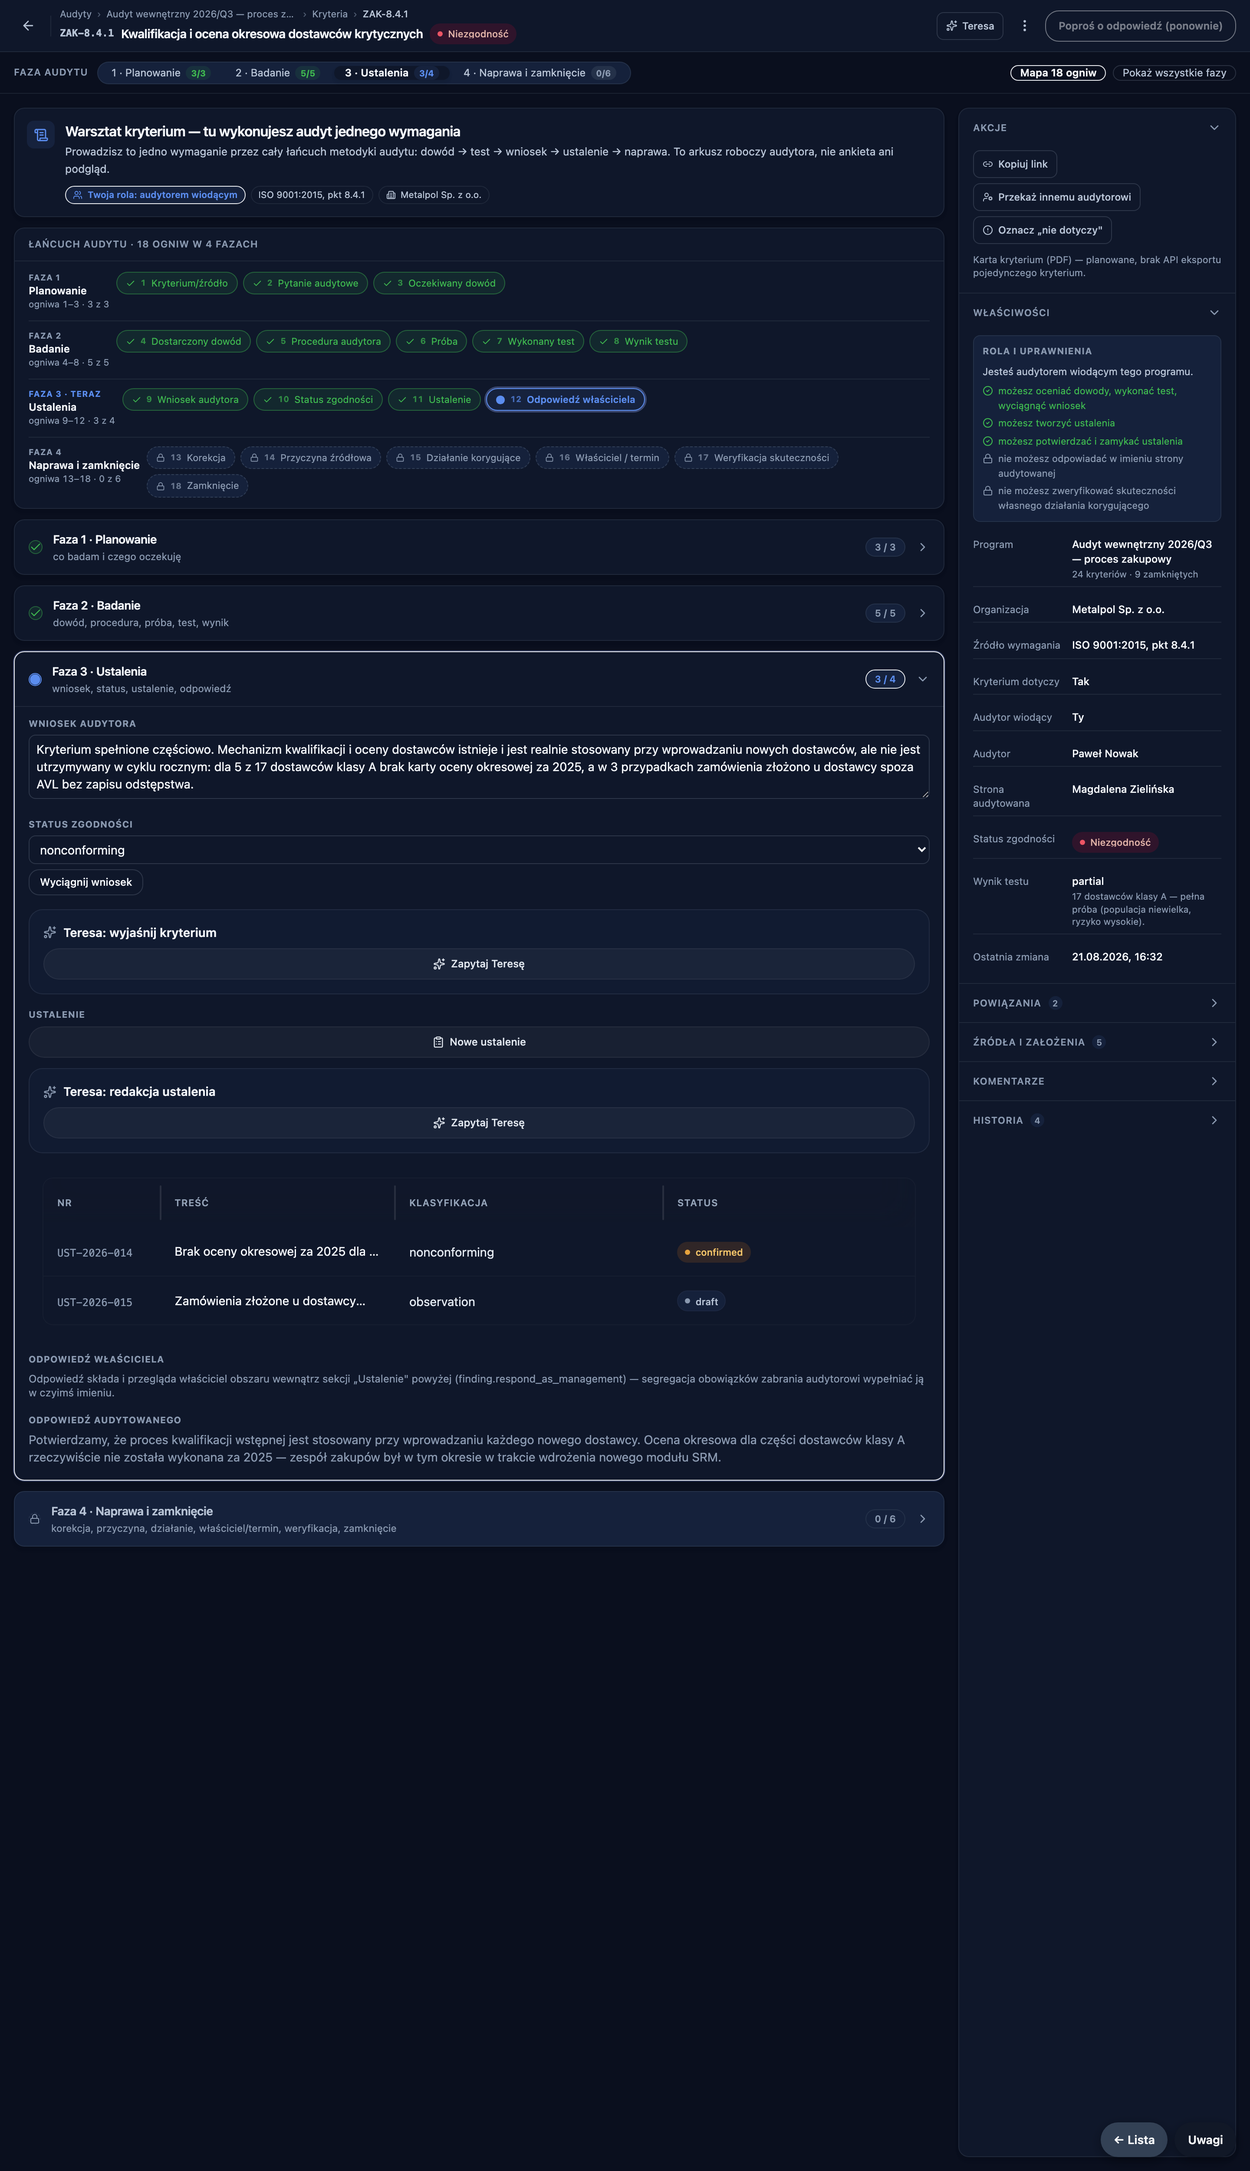
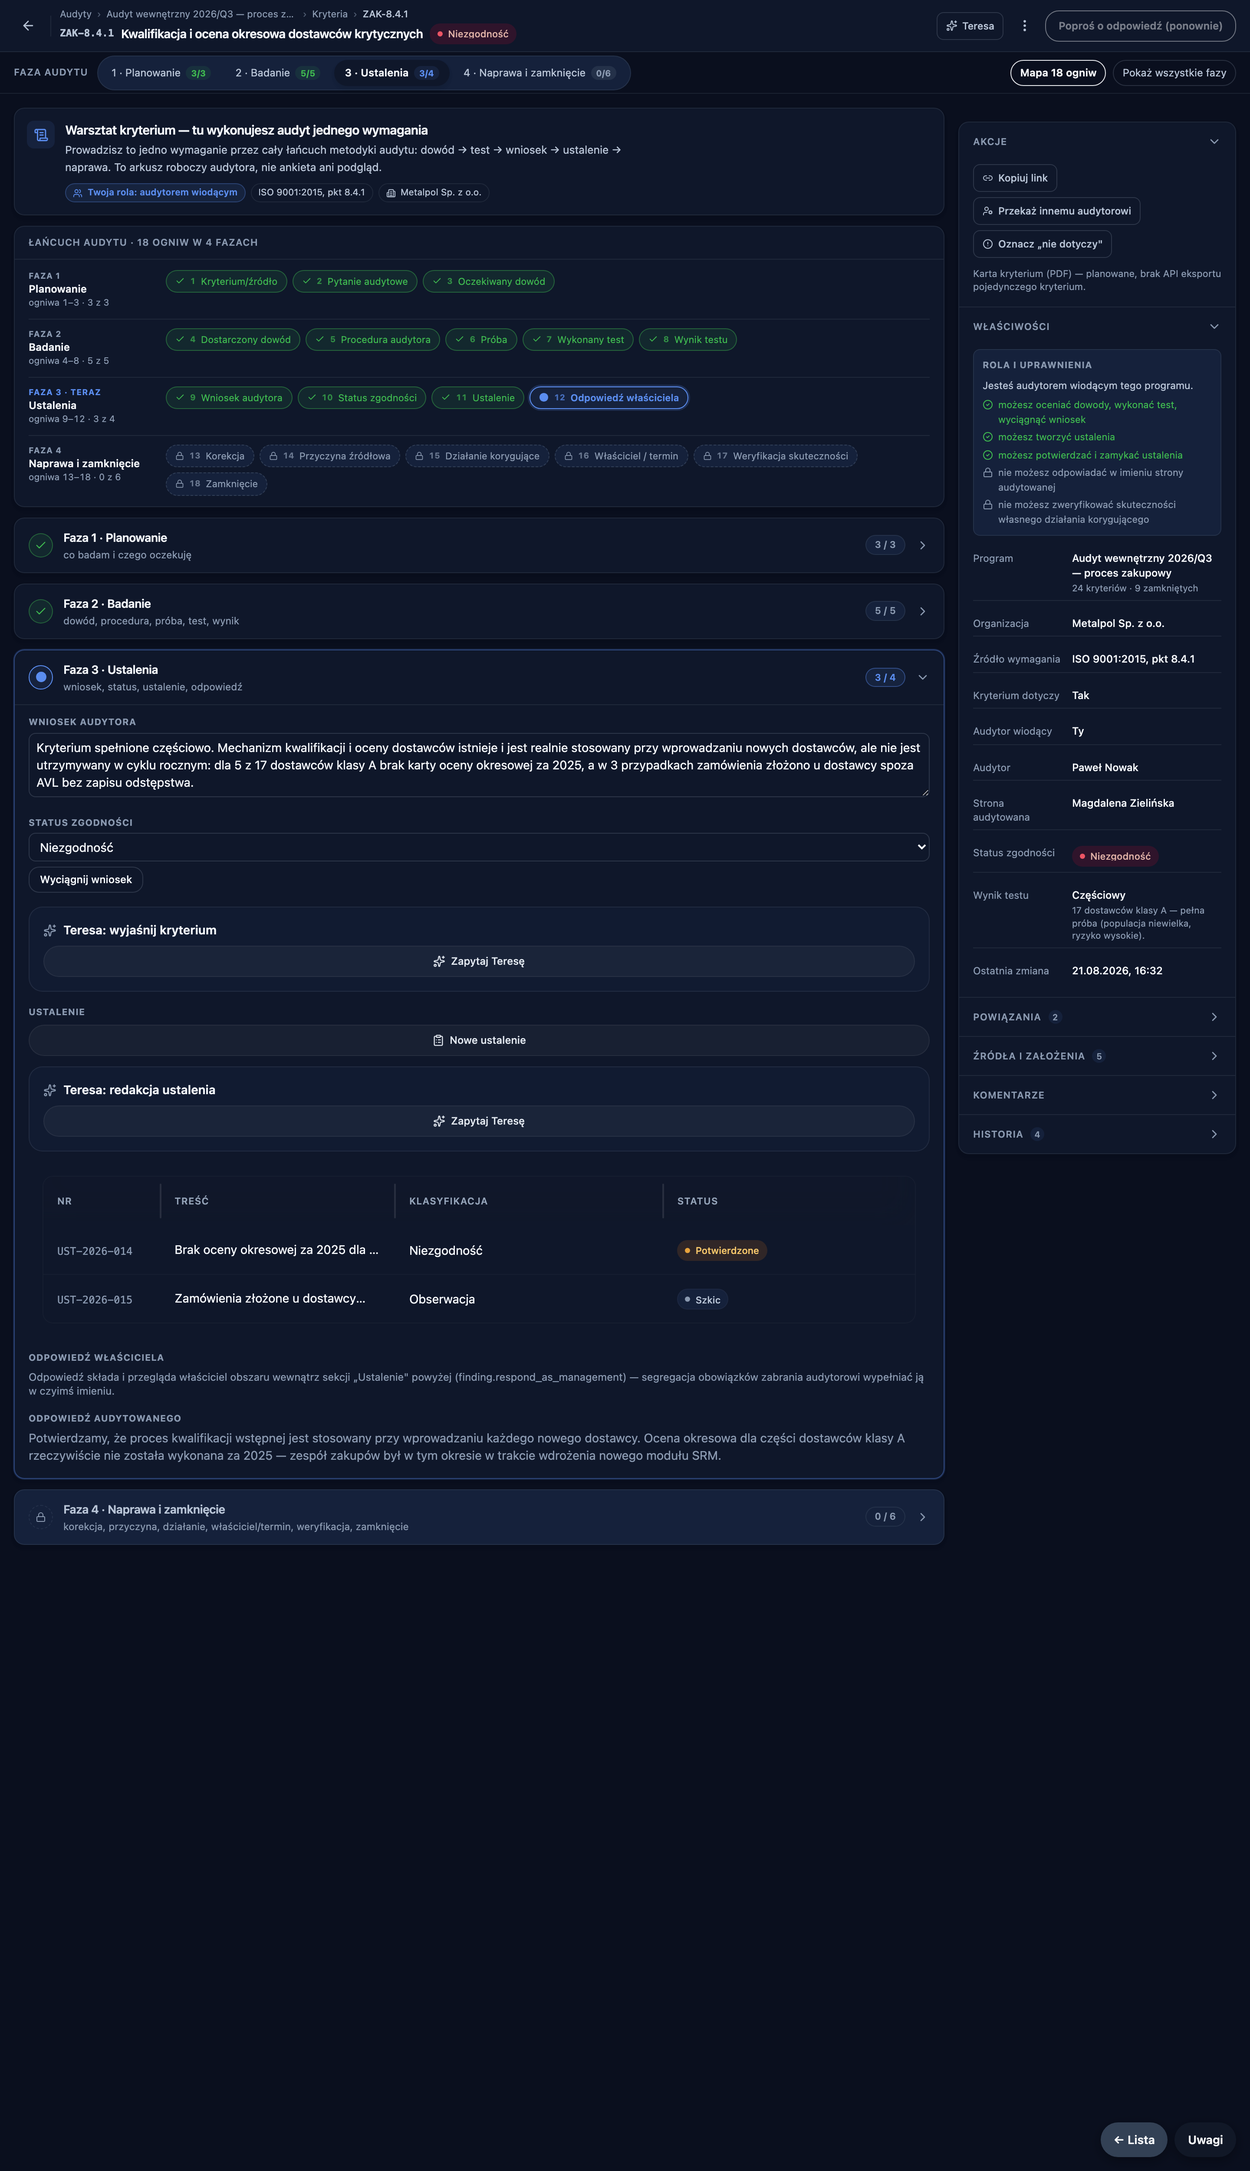
fix(audits): PL labels for every raw enum on the V2 criterion screen's face
Fix-pass requested by session supervisor after visual review: the shell
structurally matched the prototype, but several StandardTable columns and
right-panel rows leaked raw API enum keys (English, un-humanized) instead
of the prototype's Polish pills — violates CLAUDE.md "zero raw IDs/enums on
the screen's face". Display layer only; every underlying API value is
unchanged.

  - EvidencePanel: RODZAJ column now renders EVIDENCE_KIND_LABEL_PL/EN
    (document→Dokument, system_export→Eksport systemowy, etc. — full
    EvidenceKind dictionary).
  - FindingPanel: KLASYFIKACJA and STATUS columns now render label maps
    (nonconforming→Niezgodność, confirmed→Potwierdzone, draft→Szkic, full
    FindingStatus dictionary); `findingStatusLabel`/`findingClassificationLabel`
    exported so V2's Powiązania relation reuses the same dictionary instead
    of duplicating it.
  - CriterionWorkspaceV2: added TEST_RESULT_/CRITERION_WORK_STATUS_/
    AUDIT_REPORT_STATUS_/AUDIT_PROPOSAL_STATUS_LABEL_PL/EN dictionaries (one
    place per screen, same convention as the existing local t(pl,en)
    helper). Applied to: Wynik testu (properties row + phase-2 select),
    Status zgodności select options (checked the type — ConformityStatus has
    a single `nonconforming` value, no minor/major split to carry, so
    "Niezgodność" alone is correct, not a shortcut), and all 4 Powiązania
    relation subtitles (sibling criterion work status, report status,
    proposal status, finding status).
[…]

diff --git a/src/components/Audit/method/workspace/v2/CriterionWorkspaceV2.tsx b/src/components/Audit/method/workspace/v2/CriterionWorkspaceV2.tsx
@@ -65,7 +65,7 @@ import type {
   AuditReportSummary,
 } from '../../auditsMethodApi';
 import { EvidencePanel } from '../EvidencePanel';
-import { FindingPanel } from '../FindingPanel';
+import { FindingPanel, findingStatusLabel } from '../FindingPanel';
 import { RemediationPanel } from '../RemediationPanel';
 import { TeresaProposalCard } from '../TeresaProposalCard';
 import {
@@ -145,6 +145,85 @@ const ROLE_LABEL_EN: Record<string, string> = {
   administrator: 'administrator',
   viewer: 'viewer',
 };
+
+// Odbiór 2026-08-26 (fix-pass po nadzorcy): „zero surowych enumów/ID na
+// twarzy ekranu" — poniższe słowniki tłumaczą KAŻDĄ wartość enum z API, która
+// trafia na widok, na pigułkę PL/EN. Jedno miejsce, jak lokalny `t(pl,en)`
+// tego ekranu; wartości z API (TestResult/AuditCriterionSummary.workStatus/
+// AuditReportStatus/AuditProposalStatus, wszystkie `workspaceApi.ts` /
+// `auditsMethodApi.ts`) zostają BEZ ZMIAN, tylko warstwa wyświetlania.
+// Nierozpoznana wartość pokazuje się wprost (fallback `?? value`) — nigdy
+// nie znika po cichu.
+const TEST_RESULT_LABEL_PL: Record<string, string> = {
+  pass: 'Zaliczony',
+  fail: 'Niezaliczony',
+  partial: 'Częściowy',
+  inconclusive: 'Nierozstrzygający',
+};
+const TEST_RESULT_LABEL_EN: Record<string, string> = {
+  pass: 'Pass',
+  fail: 'Fail',
+  partial: 'Partial',
+  inconclusive: 'Inconclusive',
+};
+
+const CRITERION_WORK_STATUS_LABEL_PL: Record<string, string> = {
+  open: 'Otwarte',
+  evidence_requested: 'Poproszono o dowód',
+  evidence_received: 'Dowód dostarczony',
+  tested: 'Przetestowane',
+  concluded: 'Zakończone wnioskiem',
+};
+const CRITERION_WORK_STATUS_LABEL_EN: Record<string, string> = {
+  open: 'Open',
+  evidence_requested: 'Evidence requested',
+  evidence_received: 'Evidence received',
+  tested: 'Tested',
+  concluded: 'Concluded',
+};
+
+const AUDIT_REPORT_STATUS_LABEL_PL: Record<string, string> = {
+  draft: 'Szkic',
+  in_review: 'W recenzji',
+  approved: 'Zatwierdzony',
+  published: 'Opublikowany',
+  superseded: 'Zastąpiony',
+};
+const AUDIT_REPORT_STATUS_LABEL_EN: Record<string, string> = {
+  draft: 'Draft',
+  in_review: 'In review',
+  approved: 'Approved',
+  published: 'Published',
+  superseded: 'Superseded',
+};
+
+const AUDIT_PROPOSAL_STATUS_LABEL_PL: Record<string, string> = {
+  draft: 'Szkic',
+  sent_to_candidates: 'Wysłano do kandydatów',
+  registered: 'Zarejestrowana',
+  deferred: 'Odłożona',
+  dismissed: 'Odrzucona',
+};
+const AUDIT_PROPOSAL_STATUS_LABEL_EN: Record<string, string> = {
+  draft: 'Draft',
+  sent_to_candidates: 'Sent to candidates',
+  registered: 'Registered',
+  deferred: 'Deferred',
+  dismissed: 'Dismissed',
+};
+
+function testResultLabel(value: string, isPolish: boolean): string {
+  return (isPolish ? TEST_RESULT_LABEL_PL : TEST_RESULT_LABEL_EN)[value] ?? value;
+}
+function criterionWorkStatusLabel(value: string, isPolish: boolean): string {
+  return (isPolish ? CRITERION_WORK_STATUS_LABEL_PL : CRITERION_WORK_STATUS_LABEL_EN)[value] ?? value;
+}
+function reportStatusLabel(value: string, isPolish: boolean): string {
+  return (isPolish ? AUDIT_REPORT_STATUS_LABEL_PL : AUDIT_REPORT_STATUS_LABEL_EN)[value] ?? value;
+}
+function proposalStatusLabel(value: string, isPolish: boolean): string {
+  return (isPolish ? AUDIT_PROPOSAL_STATUS_LABEL_PL : AUDIT_PROPOSAL_STATUS_LABEL_EN)[value] ?? value;
+}
 
 function formatDateTime(iso: string | null | undefined, isPolish: boolean): string {
   if (!iso) return '—';
@@ -931,7 +1010,7 @@ export const CriterionWorkspaceV2: React.FC = () => {
           <PropRow k={t('Status zgodności', 'Conformity status')} v={<StatusChip label={conformityLabel} tone={conformityTone} />} />
           <PropRow
             k={t('Wynik testu', 'Test result')}
-            v={criterion.testResult || t('Brak', 'None')}
+            v={criterion.testResult ? testResultLabel(criterion.testResult, isPolish) : t('Brak', 'None')}
             sub={criterion.sampleDescription || undefined}
           />
           <PropRow k={t('Ostatnia zmiana', 'Last change')} v={formatDateTime(criterion.updatedAt, isPolish)} />
@@ -951,7 +1030,10 @@ export const CriterionWorkspaceV2: React.FC = () => {
             <RelationRow
               icon={<AlertCircle size={13} aria-hidden />}
               title={`${selectedFindingDetail.referenceCode ?? ''} · ${selectedFindingDetail.statement}`.slice(0, 72)}
-              subtitle={t(`ustalenie · ${selectedFindingDetail.status}`, `finding · ${selectedFindingDetail.status}`)}
+              subtitle={t(
+                `ustalenie · ${findingStatusLabel(selectedFindingDetail.status, true)}`,
+                `finding · ${findingStatusLabel(selectedFindingDetail.status, false)}`
+              )}
               onClick={() => scrollToPhase('ustalenia')}
             />
           )}
@@ -959,7 +1041,10 @@ export const CriterionWorkspaceV2: React.FC = () => {
             <RelationRow
               icon={<ScrollText size={13} aria-hidden />}
               title={`${siblingCriterion.refCode ?? ''} · ${siblingCriterion.title}`}
-              subtitle={t(`kryterium siostrzane · ${siblingCriterion.workStatus}`, `sibling criterion · ${siblingCriterion.workStatus}`)}
+              subtitle={t(
+                `kryterium siostrzane · ${criterionWorkStatusLabel(siblingCriterion.workStatus, true)}`,
+                `sibling criterion · ${criterionWorkStatusLabel(siblingCriterion.workStatus, false)}`
+              )}
               onClick={() => navigate(`/audit-programs/${programId}/criteria/${siblingCriterion.id}`)}
             />
           )}
@@ -967,7 +1052,10 @@ export const CriterionWorkspaceV2: React.FC = () => {
             <RelationRow
               icon={<FileText size={13} aria-hidden />}
               title={latestReport.title}
-              subtitle={t(`dokument · ${latestReport.status}`, `document · ${latestReport.status}`)}
+              subtitle={t(
+                `dokument · ${reportStatusLabel(latestReport.status, true)}`,
+                `document · ${reportStatusLabel(latestReport.status, false)}`
+              )}
               onClick={() => navigate('/audit-programs?tab=reports')}
             />
           )}
@@ -975,7 +1063,10 @@ export const CriterionWorkspaceV2: React.FC = () => {
             <RelationRow
               icon={<ClipboardCheck size={13} aria-hidden />}
               title={relatedProposal.title}
-              subtitle={t(`inicjatywa naprawcza · ${relatedProposal.status}`, `remediation initiative · ${relatedProposal.status}`)}
+              subtitle={t(
+                `inicjatywa naprawcza · ${proposalStatusLabel(relatedProposal.status, true)}`,
+                `remediation initiative · ${proposalStatusLabel(relatedProposal.status, false)}`
+              )}
               onClick={() => navigate('/audit-programs?tab=initiatives')}
             />
           )}
@@ -1031,7 +1122,11 @@ export const CriterionWorkspaceV2: React.FC = () => {
       emptyLabel: t('Brak zdarzeń dla tego kryterium.', 'No events for this criterion yet.'),
       children: (
         <div>
-          <PreviewActivityStrip events={activityEvents} initialCount={4} />
+          <PreviewActivityStrip
+            events={activityEvents}
+            initialCount={4}
+            formatTimestamp={(ts) => formatDateTime(ts, isPolish)}
+          />
           {canProposeAi && (
             <div className="mt-2 rounded-token-sm border border-c-focus-solid/30 bg-c-focus/5 p-2">
               <p className="text-[11px] leading-snug text-c-text-secondary">
@@ -1390,10 +1485,10 @@ export const CriterionWorkspaceV2: React.FC = () => {
                             className="w-full rounded-token-sm border border-c-border bg-c-surface px-2 py-1.5 text-sm text-c-text disabled:opacity-60"
                           >
                             <option value="">—</option>
-                            <option value="pass">pass</option>
-                            <option value="fail">fail</option>
-                            <option value="partial">partial</option>
-                            <option value="inconclusive">inconclusive</option>
+                            <option value="pass">{testResultLabel('pass', isPolish)}</option>
+                            <option value="fail">{testResultLabel('fail', isPolish)}</option>
+                            <option value="partial">{testResultLabel('partial', isPolish)}</option>
+                            <option value="inconclusive">{testResultLabel('inconclusive', isPolish)}</option>
                           </select>
                           {canPerformTest ? (
                             <button
@@ -1451,7 +1546,7 @@ export const CriterionWorkspaceV2: React.FC = () => {
                           >
                             {workspaceApi.CONFORMITY_STATUSES.filter((s) => s !== 'not_tested').map((s) => (
                               <option key={s} value={s} disabled={s === 'conforming' && !hasAcceptedEvidence}>
-                                {s}
+                                {(isPolish ? CONFORMITY_LABEL_PL : CONFORMITY_LABEL_EN)[s]}
                                 {s === 'conforming' && !hasAcceptedEvidence ? ` — ${t('wymaga zaakceptowanego dowodu', 'requires accepted evidence')}` : ''}
                               </option>
                             ))}

diff --git a/src/components/Audit/method/workspace/FindingPanel.tsx b/src/components/Audit/method/workspace/FindingPanel.tsx
@@ -62,6 +62,56 @@ function findingStatusTone(status: string): 'success' | 'warning' | 'danger' | '
   return 'warning';
 }
 
+// Słowniki KLASYFIKACJI i STATUSU ustalenia — jedno miejsce, tak jak lokalny
+// `t(pl,en)` tego ekranu. Odbiór 2026-08-26: „zero surowych enumów na twarzy
+// ekranu" — wartości z API (`classification` wolny string ograniczony do
+// czterech opcji formularza niżej; `FindingStatus`, `workspaceApi.ts`)
+// zostają bez zmian, tylko WARSTWA WYŚWIETLANIA dostaje pigułkę PL/EN.
+// Nierozpoznana wartość (np. przyszłe rozszerzenie słownika) pokazuje się
+// wprost — nigdy pusto — więc nic nie znika po cichu.
+const FINDING_CLASSIFICATION_LABEL_PL: Record<string, string> = {
+  nonconforming: 'Niezgodność',
+  observation: 'Obserwacja',
+  opportunity_for_improvement: 'Szansa na usprawnienie',
+  evidence_insufficient: 'Dowód niewystarczający',
+};
+const FINDING_CLASSIFICATION_LABEL_EN: Record<string, string> = {
+  nonconforming: 'Nonconformity',
+  observation: 'Observation',
+  opportunity_for_improvement: 'Opportunity for improvement',
+  evidence_insufficient: 'Insufficient evidence',
+};
+
+const FINDING_STATUS_LABEL_PL: Record<string, string> = {
+  draft: 'Szkic',
+  in_review: 'W recenzji',
+  confirmed: 'Potwierdzone',
+  response_pending: 'Czeka na odpowiedź',
+  remediation_in_progress: 'Naprawa w toku',
+  verification_pending: 'Czeka na weryfikację',
+  closed: 'Zamknięte',
+  risk_accepted: 'Ryzyko zaakceptowane',
+  rejected: 'Odrzucone',
+};
+const FINDING_STATUS_LABEL_EN: Record<string, string> = {
+  draft: 'Draft',
+  in_review: 'In review',
+  confirmed: 'Confirmed',
+  response_pending: 'Response pending',
+  remediation_in_progress: 'Remediation in progress',
+  verification_pending: 'Verification pending',
+  closed: 'Closed',
+  risk_accepted: 'Risk accepted',
+  rejected: 'Rejected',
+};
+
+export function findingStatusLabel(status: string, isPolish: boolean): string {
+  return (isPolish ? FINDING_STATUS_LABEL_PL : FINDING_STATUS_LABEL_EN)[status] ?? status;
+}
+export function findingClassificationLabel(classification: string, isPolish: boolean): string {
+  return (isPolish ? FINDING_CLASSIFICATION_LABEL_PL : FINDING_CLASSIFICATION_LABEL_EN)[classification] ?? classification;
+}
+
 export const FindingPanel: React.FC<FindingPanelProps> = ({
   programId,
   criterionId,
@@ -245,12 +295,17 @@ export const FindingPanel: React.FC<FindingPanelProps> = ({
       id: 'classification',
       label: t('Klasyfikacja', 'Classification'),
       width: '160px',
+      render: (row: WorkspaceFinding) => (
+        <span className="text-sm text-c-text">{findingClassificationLabel(row.classification, isPolish)}</span>
+      ),
     },
     {
       id: 'status',
       label: t('Status', 'Status'),
       width: '150px',
-      render: (row: WorkspaceFinding) => <StatusChip label={row.status} tone={findingStatusTone(row.status)} />,
+      render: (row: WorkspaceFinding) => (
+        <StatusChip label={findingStatusLabel(row.status, isPolish)} tone={findingStatusTone(row.status)} />
+      ),
     },
   ];
 

diff --git a/src/components/Audit/method/workspace/EvidencePanel.tsx b/src/components/Audit/method/workspace/EvidencePanel.tsx
@@ -50,6 +50,31 @@ const EVIDENCE_KIND_OPTIONS: EvidenceKind[] = [
   'sample',
 ];
 
+// Słownik RODZAJU dowodu — jedno miejsce, tak jak lokalny `t(pl,en)` tego
+// ekranu. Odbiór 2026-08-26: „zero surowych enumów na twarzy ekranu" —
+// `evidenceKind` z API (`EvidenceKind`, `workspaceApi.ts`) zostaje bez zmian,
+// tylko WARSTWA WYŚWIETLANIA dostaje pigułkę PL/EN.
+const EVIDENCE_KIND_LABEL_PL: Record<EvidenceKind, string> = {
+  document: 'Dokument',
+  interview_answer: 'Odpowiedź z wywiadu',
+  interview_statement: 'Oświadczenie z wywiadu',
+  observation: 'Obserwacja',
+  system_export: 'Eksport systemowy',
+  screenshot: 'Zrzut ekranu',
+  note: 'Notatka',
+  sample: 'Próbka',
+};
+const EVIDENCE_KIND_LABEL_EN: Record<EvidenceKind, string> = {
+  document: 'Document',
+  interview_answer: 'Interview answer',
+  interview_statement: 'Interview statement',
+  observation: 'Observation',
+  system_export: 'System export',
+  screenshot: 'Screenshot',
+  note: 'Note',
+  sample: 'Sample',
+};
+
 export const EvidencePanel: React.FC<EvidencePanelProps> = ({
   programId,
   criterionId,
@@ -145,6 +170,11 @@ export const EvidencePanel: React.FC<EvidencePanelProps> = ({
       id: 'evidenceKind',
       label: t('Rodzaj', 'Kind'),
       width: '140px',
+      render: (row: WorkspaceEvidence) => (
+        <span className="text-sm text-c-text">
+          {(isPolish ? EVIDENCE_KIND_LABEL_PL : EVIDENCE_KIND_LABEL_EN)[row.evidenceKind] ?? row.evidenceKind}
+        </span>
+      ),
     },
     {
       id: 'supportsConformity',

diff --git a/src/components/shared/PreviewPane/PreviewActivityStrip.tsx b/src/components/shared/PreviewPane/PreviewActivityStrip.tsx
@@ -14,6 +14,15 @@ export interface PreviewActivityStripProps {
   events: ActivityEvent[];
   /** Max events to show before collapsing (default: 3) */
   initialCount?: number;
+  /**
+   * Optional override for the per-event timestamp text (default: relative
+   * "5m"/"2h"/"3d", see `formatRelative` below). Additive — existing callers
+   * that don't pass it keep the relative format unchanged. Added 2026-08-26
+   * for `CriterionWorkspaceV2` (Historia panel), which needs a full localized
+   * date/time to match its "zero raw enums/timestamps on the screen's face"
+   * canon rather than a relative offset.
+   */
+  formatTimestamp?: (timestamp: string, t: TFunction) => string;
 }
 
 function formatRelative(ts: string, t: TFunction): string {
@@ -30,6 +39,7 @@ function formatRelative(ts: string, t: TFunction): string {
 export const PreviewActivityStrip: React.FC<PreviewActivityStripProps> = ({
   events,
   initialCount = 3,
+  formatTimestamp,
 }) => {
   const { t } = useTranslation();
   const [expanded, setExpanded] = useState(false);
@@ -60,7 +70,7 @@ export const PreviewActivityStrip: React.FC<PreviewActivityStripProps> = ({
                 {event.description}
               </div>
               <div className="text-[10px] text-slate-600 dark:text-slate-500 mt-0.5">
-                {formatRelative(event.timestamp, t)}
+                {(formatTimestamp ?? formatRelative)(event.timestamp, t)}
               </div>
             </div>
           </div>
